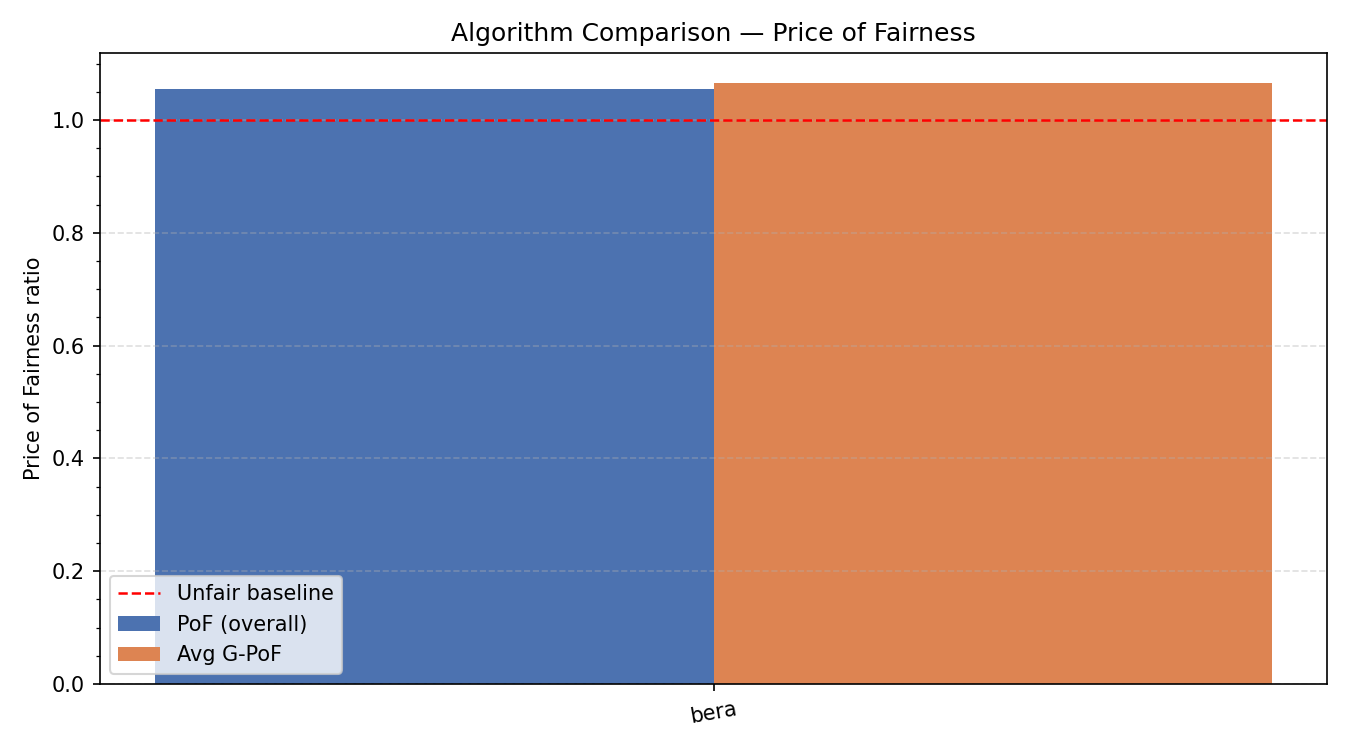
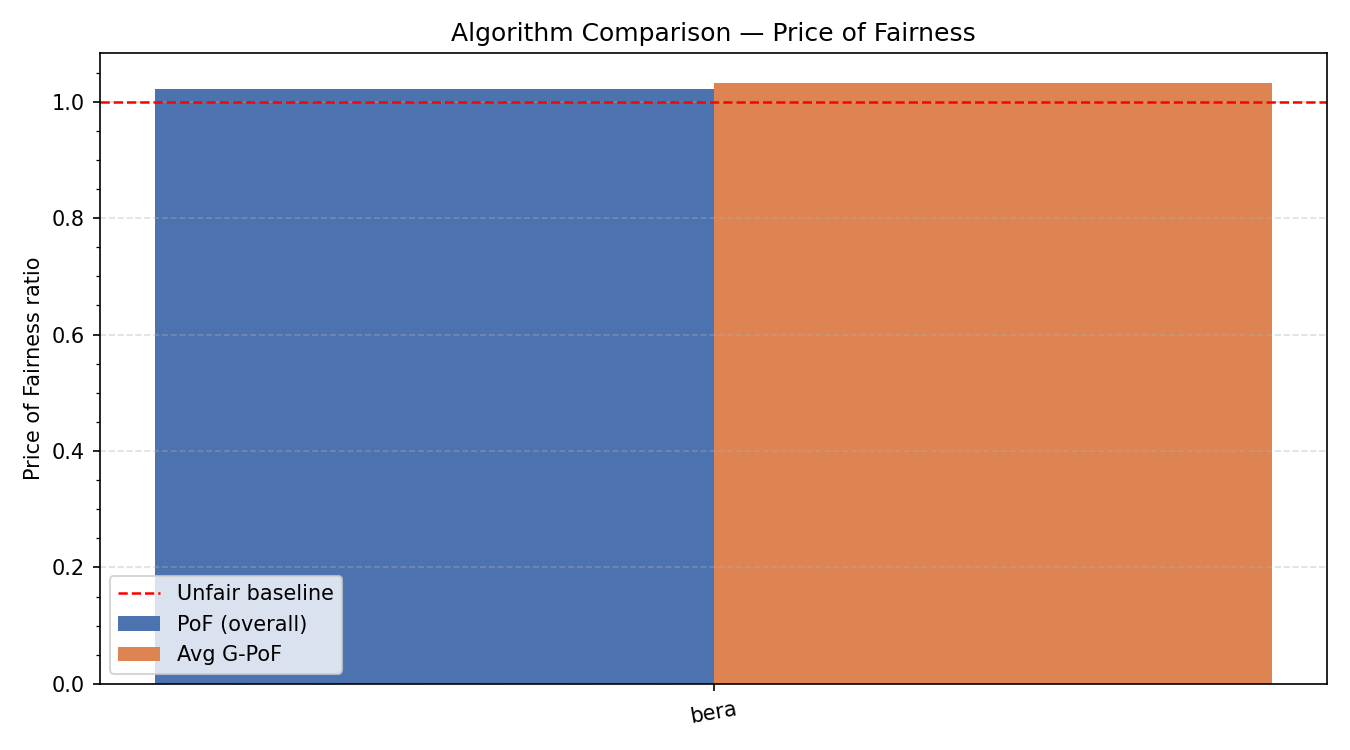
new visuals + some cleaner code etc..

diff --git a/kmedian_rust/src/lib.rs b/kmedian_rust/src/lib.rs
@@ -1,0 +1,146 @@
+use pyo3::prelude::*;
+use numpy::{IntoPyArray, PyArray1, PyArray2, PyReadonlyArray1, PyReadonlyArray2};
+use ndarray::{Array2, Array1, s};
+
+fn pairwise_l1(x: &Array2<f64>, centers: &Array2<f64>) -> Array2<f64> {
+    let n = x.nrows();
+    let k = centers.nrows();
+    let d = x.ncols();
+    let mut dist = Array2::<f64>::zeros((n, k));
+    for i in 0..n {
+        for j in 0..k {
+            let mut s = 0.0;
+            for f in 0..d {
+                s += (x[[i, f]] - centers[[j, f]]).abs();
+            }
+            dist[[i, j]] = s;
+        }
+    }
+    dist
+}
+
+/// given the full distance matrix D (n×k), derive labels, per-point min distances,
+/// and the weighted total cost.
+fn labels_and_cost(
+    d: &Array2<f64>,
+    weights: &Array1<f64>,
+) -> (Array1<i32>, Array1<f64>, f64) {
+    let n = d.nrows();
+    let k = d.ncols();
+    let mut labels = Array1::<i32>::zeros(n);
+    let mut min_dists = Array1::<f64>::zeros(n);
+    let mut cost = 0.0;
+
+    for i in 0..n {
+        let mut best_dist = f64::MAX;
+        let mut best_j = 0i32;
+        for j in 0..k {
+            let v = d[[i, j]];
+            if v < best_dist {
+                best_dist = v;
+                best_j = j as i32;
+            }
+        }
+        labels[i] = best_j;
+        min_dists[i] = best_dist;
+        cost += weights[i] * best_dist;
+    }
+    (labels, min_dists, cost)
+}
+
+#[pyfunction]
+fn local_search_kmedian<'py>(
+    py: Python<'py>,
+    x_py: PyReadonlyArray2<f64>,
+    k: usize,
+    weights_py: PyReadonlyArray1<f64>,
+    init_centers_py: PyReadonlyArray2<f64>,
+    max_iter: usize,
+) -> PyResult<(&'py PyArray2<f64>, &'py PyArray1<i32>, f64)> {
+
+    let x = x_py.as_array().to_owned();
+    let weights = weights_py.as_array().to_owned();
+    let mut centers = init_centers_py.as_array().to_owned();
+
+    let n = x.nrows();
+    let d = x.ncols();
+
+    // full n×k distance matrix — reused across iterations
+    let mut big_d = pairwise_l1(&x, &centers);
+    let (mut labels, mut _min_dists, mut cost) = labels_and_cost(&big_d, &weights);
+
+    for _ in 0..max_iter {
+        let mut best_gain = 0.0f64;
+        let mut best_swap: Option<(usize, usize)> = None;
+
+        for ci in 0..k {
+            // for each point, find the best distance ignoring center `ci`.
+            // this is the minimum over all columns except column `ci`.
+            let mut min_dists_without_ci = Array1::<f64>::from_elem(n, f64::MAX);
+            for i in 0..n {
+                let mut best = f64::MAX;
+                for j in 0..k {
+                    if j == ci {
+                        continue;
+                    }
+                    let v = big_d[[i, j]];
+                    if v < best {
+                        best = v;
+                    }
+                }
+                min_dists_without_ci[i] = best;
+            }
+
+            // try swapping center `ci` with each data point `xi`
+            for xi in 0..n {
+                // compute distance from every point to the candidate xi
+                let mut trial_cost = 0.0f64;
+                for i in 0..n {
+                    let mut dist_to_cand = 0.0;
+                    for f in 0..d {
+                        dist_to_cand += (x[[i, f]] - x[[xi, f]]).abs();
+                    }
+                    // each point goes to whichever is closer
+                    let new_dist = min_dists_without_ci[i].min(dist_to_cand);
+                    trial_cost += weights[i] * new_dist;
+                }
+
+                let gain = cost - trial_cost;
+                if gain > best_gain {
+                    best_gain = gain;
+                    best_swap = Some((ci, xi));
+                }
+            }
+        }
+
+        if let Some((ci, xi)) = best_swap {
+            // apply the swap
+            let new_center = x.slice(s![xi, ..]).to_owned();
+            centers.row_mut(ci).assign(&new_center);
+
+            // update only the column `ci` of big_d
+            for i in 0..n {
+                let mut dist = 0.0;
+                for f in 0..d {
+                    dist += (x[[i, f]] - centers[[ci, f]]).abs();
+                }
+                big_d[[i, ci]] = dist;
+            }
+
+            let result = labels_and_cost(&big_d, &weights);
+            labels = result.0;
+            _min_dists = result.1;
+            cost = result.2;
+        } else {
+            break; // local optimum reached
+        }
+    }
+
+    Ok((centers.into_pyarray(py), labels.into_pyarray(py), cost))
+}
+
+#[pymodule]
+fn fast_kmedian(_py: Python, m: &PyModule) -> PyResult<()> {
+    m.add_function(wrap_pyfunction!(local_search_kmedian, m)?)?;
+    Ok(())
+}

diff --git a/kmedian.py b/kmedian.py
@@ -3,7 +3,7 @@ from typing import Optional
 
 import matplotlib.pyplot as plt
 import pandas as pd
-from numba import njit
+from fast_kmedian import fast_kmedian
 
 import csv_loader
 from coreset import compute_fair_coreset
@@ -16,17 +16,7 @@ def l1_distance(a: np.ndarray, b: np.ndarray) -> float:
 def pairwise_l1(X: np.ndarray, centers: np.ndarray) -> np.ndarray:
     """
     Compute pairwise L1 distances between all points in X and all centers.
-
-    Parameters
-    ----------
-    X       : (n, d) array of data points
-    centers : (k, d) array of centers
-
-    Returns
-    -------
-    D : (n, k) distance matrix
     """
-    # Expand dims for broadcasting: (n,1,d) - (1,k,d) -> (n,k,d)
     return np.sum(np.abs(X[:, np.newaxis, :] - centers[np.newaxis, :, :]), axis=2)
 
 
@@ -34,10 +24,6 @@ def assignment_cost(X: np.ndarray, centers: np.ndarray, _weights: Optional[np.nd
     """
     Assign each point to its nearest center and return total L1 cost.
 
-    Returns
-    -------
-    labels : (n,) integer array of center indices
-    cost   : sum_i  w_i * d(x_i, assigned center)
     """
     if _weights is None:
         _weights = np.ones(len(X))
@@ -57,10 +43,6 @@ def kmedian_plus_plus_seed(
     Probabilistic seeding: choose first center uniformly at random, then
     each subsequent center with probability proportional to its L1 distance
     to the nearest already-chosen center.
-
-    Returns
-    -------
-    centers : (k, d) array of initial center coordinates (rows of X)
     """
     if _weights is None:
         _weights = np.ones(len(x))
@@ -95,8 +77,7 @@ def local_search_kmedian(
         max_iter: int = 10,
 ) -> tuple[np.ndarray, np.ndarray, float]:
     """
-    Optimized single-swap local search for k-median (Arya et al. 2004 style).
-    Avoids recomputing the full distance matrix on every swap trial.
+    Optimized single-swap local search for k-median
     """
     n, d = X.shape
     centers = init_centers.copy()
@@ -174,32 +155,11 @@ def kmedian(
     Vanilla k-median clustering via k-median++ seeding + single-swap local search.
 
     Runs `n_trials` independent restarts and returns the best result.
-
-    Parameters
-    ----------
-    X           : (n, d) float array of data points
-    k           : number of clusters
-    n_trials    : number of random restarts (best result is returned)
-    max_iter    : maximum local-search iterations per trial
-    random_seed : optional seed for reproducibility
-
-    Returns
-    -------
-    centers : (k, d) array of final center coordinates
-    labels  : (n,) integer array; labels[i] = index of nearest center for point i
-    cost    : total L1 assignment cost (sum of distances to assigned center)
-
-    Notes
-    -----
-    Distance metric: Manhattan (L1), consistent with the formal problem definition
-    in the thesis (metric space with L1 distance).
     """
     X = np.asarray(X, dtype=float)
 
     if _weights is not None:
         _weights = np.asarray(_weights, dtype=float)
-        assert len(_weights) == len(X), "weights must have same length as X"
-        assert np.all(_weights >= 0), "weights must be non-negative"
     else:
         _weights = np.ones(len(X))
 
@@ -209,6 +169,9 @@ def kmedian(
 
     for trial in range(n_trials):
         init_centers = kmedian_plus_plus_seed(X, k, rng, _weights)
+        #centers, labels, cost = fast_kmedian.local_search_kmedian(
+        #    X, k,_weights, init_centers, max_iter
+        #)
         centers, labels, cost = local_search_kmedian(X, k, _weights, init_centers, max_iter)
         if cost < best_cost:
             best_centers = centers
@@ -221,7 +184,7 @@ def kmedian(
 if __name__ == "__main__":
     df: pd.DataFrame = csv_loader.load_csv_chunked("us_census_puma_data.csv",
                                                    csv_loader.LOAD_COLS, csv_loader.LOAD_DTYPES,
-                                                   10_000, 10_000)
+                                                   10_0, 10_0)
 
     coreset_df = compute_fair_coreset(df, n_locations=300, random_seed=42)
 

diff --git a/algorithms/main_bera_fair_clustering.py b/algorithms/main_bera_fair_clustering.py
@@ -344,11 +344,6 @@ def fair_clustering(
           f"(n_vars = {len(x) * k_centers:,}, n_constraints ≈ {len(x) + 2*nr_of_groups*k_centers:,}) ...")
     x_lp = solve_fair_lp(x, unfair_centers, weights, group_codes, lower_bounds, upper_bounds)
     timing['Solve Initial LP'] = time.perf_counter() - t_start_lp
-    if x_lp is None:
-        warnings.warn(
-            "[FairClustering] LP infeasible — returning unfair k-median result."
-        )
-        return None
 
     t_start_rounding = time.perf_counter()
     distsances_to_centers = pairwise_l1(x, unfair_centers)
@@ -386,8 +381,8 @@ if __name__ == "__main__":
         "../us_census_puma_data.csv",
         csv_loader.LOAD_COLS,
         csv_loader.LOAD_DTYPES,
-        chunk_size=10_000,
-        max_rows=10_000,
+        chunk_size=50_000,
+        max_rows=50_000,
     )
     ##coreset_df = compute_fair_coreset(df_raw, n_locations=300, random_seed=42)
 
@@ -416,7 +411,7 @@ if __name__ == "__main__":
 
     FEATURE_COLS  = ["Lat_Scaled", "Lon_Scaled"]
     PROTECTED_COL = "GROUP_ID"
-    K             = 10
+    K             = 4
     ALPHA         = 0.02
 
     (unfair_centers, unfair_labels, unfair_cost,
@@ -458,13 +453,13 @@ if __name__ == "__main__":
 
     summary = evaluate(fair_result, unfair_result=unfair_result)
 
-    audit_fairness_proportional(fair_result, lower_bounds, upper_bounds)
+    #udit_fairness_proportional(fair_result, lower_bounds, upper_bounds)
 
     plot_execution_times(fair_result, timing, title="Bera et al. — Run Time")
-    plot_spatial_clusters(preprocessed_df, fair_result,
-                          feature_cols=FEATURE_COLS, group_col=PROTECTED_COL,
-                          weight_col=None)
-    plot_cluster_pof(fair_result, [summary])
-    plot_pof_comparison(fair_result, [summary])
-    plot_group_pof(fair_result, [summary])
-    plot_cost_breakdown(fair_result, [summary])
+    #plot_spatial_clusters(preprocessed_df, fair_result,
+    #                      feature_cols=FEATURE_COLS, group_col=PROTECTED_COL,
+    #                      weight_col=None)
+    #plot_cluster_pof(fair_result, [summary])
+    #plot_pof_comparison(fair_result, [summary])
+    #plot_group_pof(fair_result, [summary])
+    #plot_cost_breakdown(fair_result, [summary])

diff --git a/algorithms/main_bercea_fair_clustering.py b/algorithms/main_bercea_fair_clustering.py
@@ -218,13 +218,6 @@ def fair_clustering(
     x_lp = solve_fair_lp(x, centers, weights, group_codes, lower_bound, upper_bound)
     timing['Solve Initial LP'] = time.perf_counter() - t_start_lp
 
-    if x_lp is None:
-        warnings.warn("LP failed — returning unfair k-median assignment.")
-        d = pairwise_l1(x, centers)
-        labels = np.argmin(d, axis=1).astype(np.int32)
-        cost = float(np.dot(weights, d[np.arange(len(x)), labels]))
-        return centers, labels, cost
-
     print(f"LP fractional cost: {float(np.dot(weights, (pairwise_l1(x, centers) * x_lp).sum(axis=1))):,.2f}")
     # --- Step 3: MCF rounding ---
     print("Min-cost flow rounding...")
